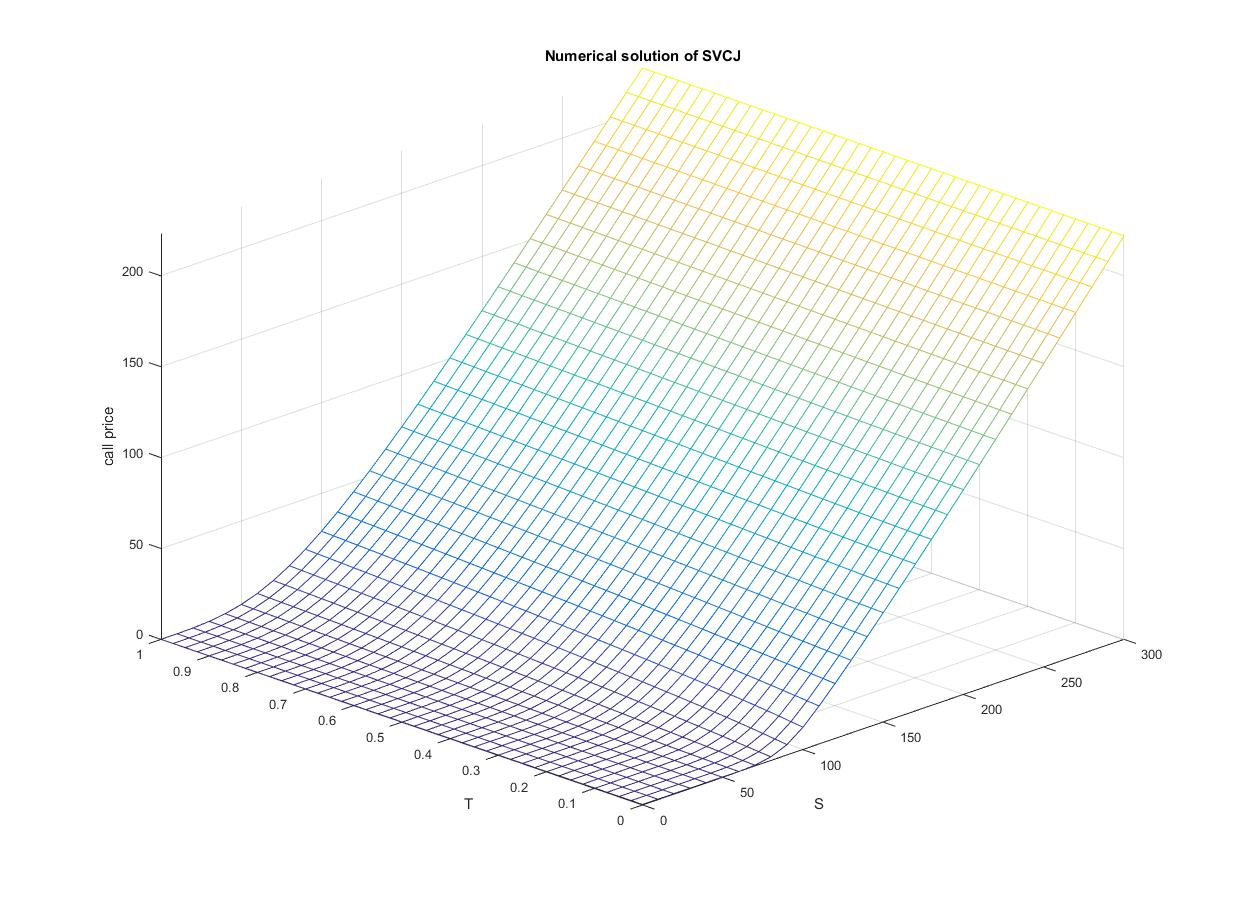
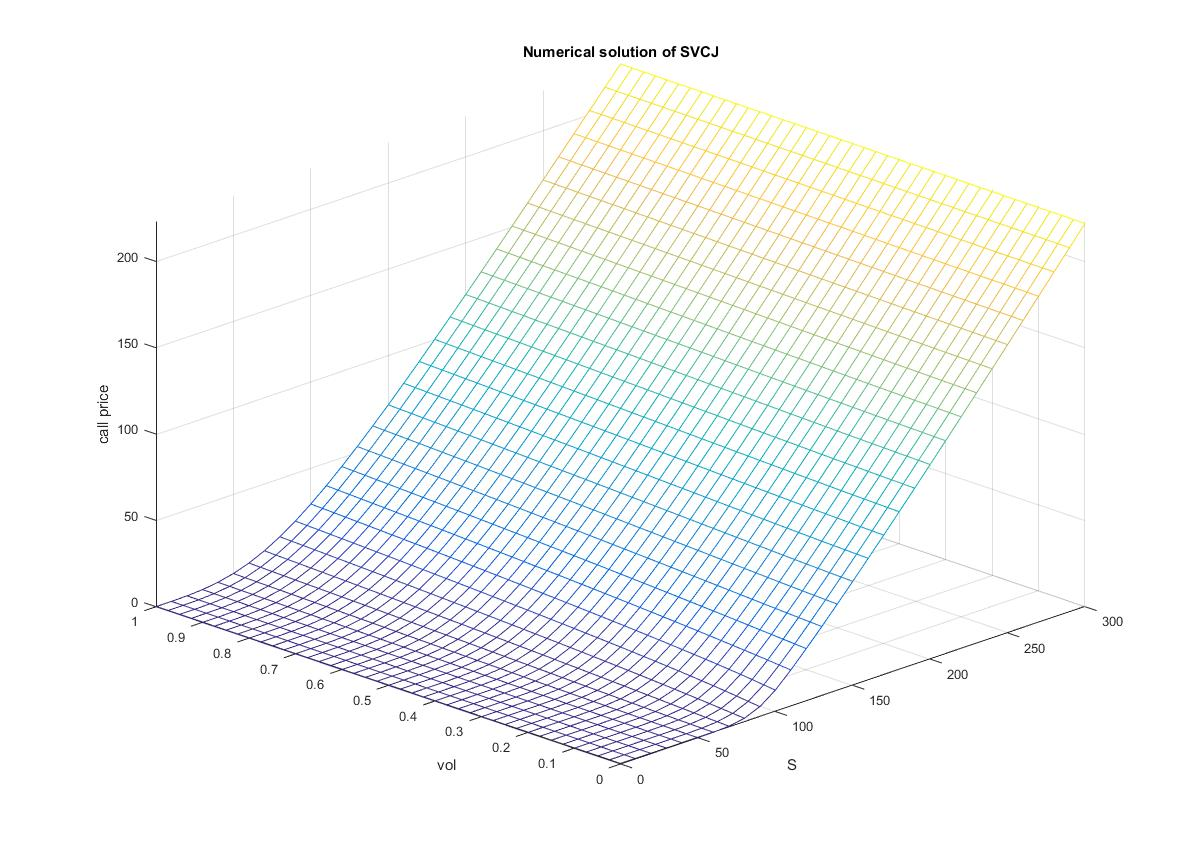
Stochastic volatility with contemporaneous jumps by using finite difference method

diff --git a/code/Execute_SVCJ_max_call.m b/code/Execute_SVCJ_max_call.m
@@ -179,5 +179,5 @@ axis tight
 view(-45, 30)
 title('Numerical solution of SVCJ')
 xlabel('S');
-ylabel('T');
+ylabel('vol');
 zlabel('call price')
